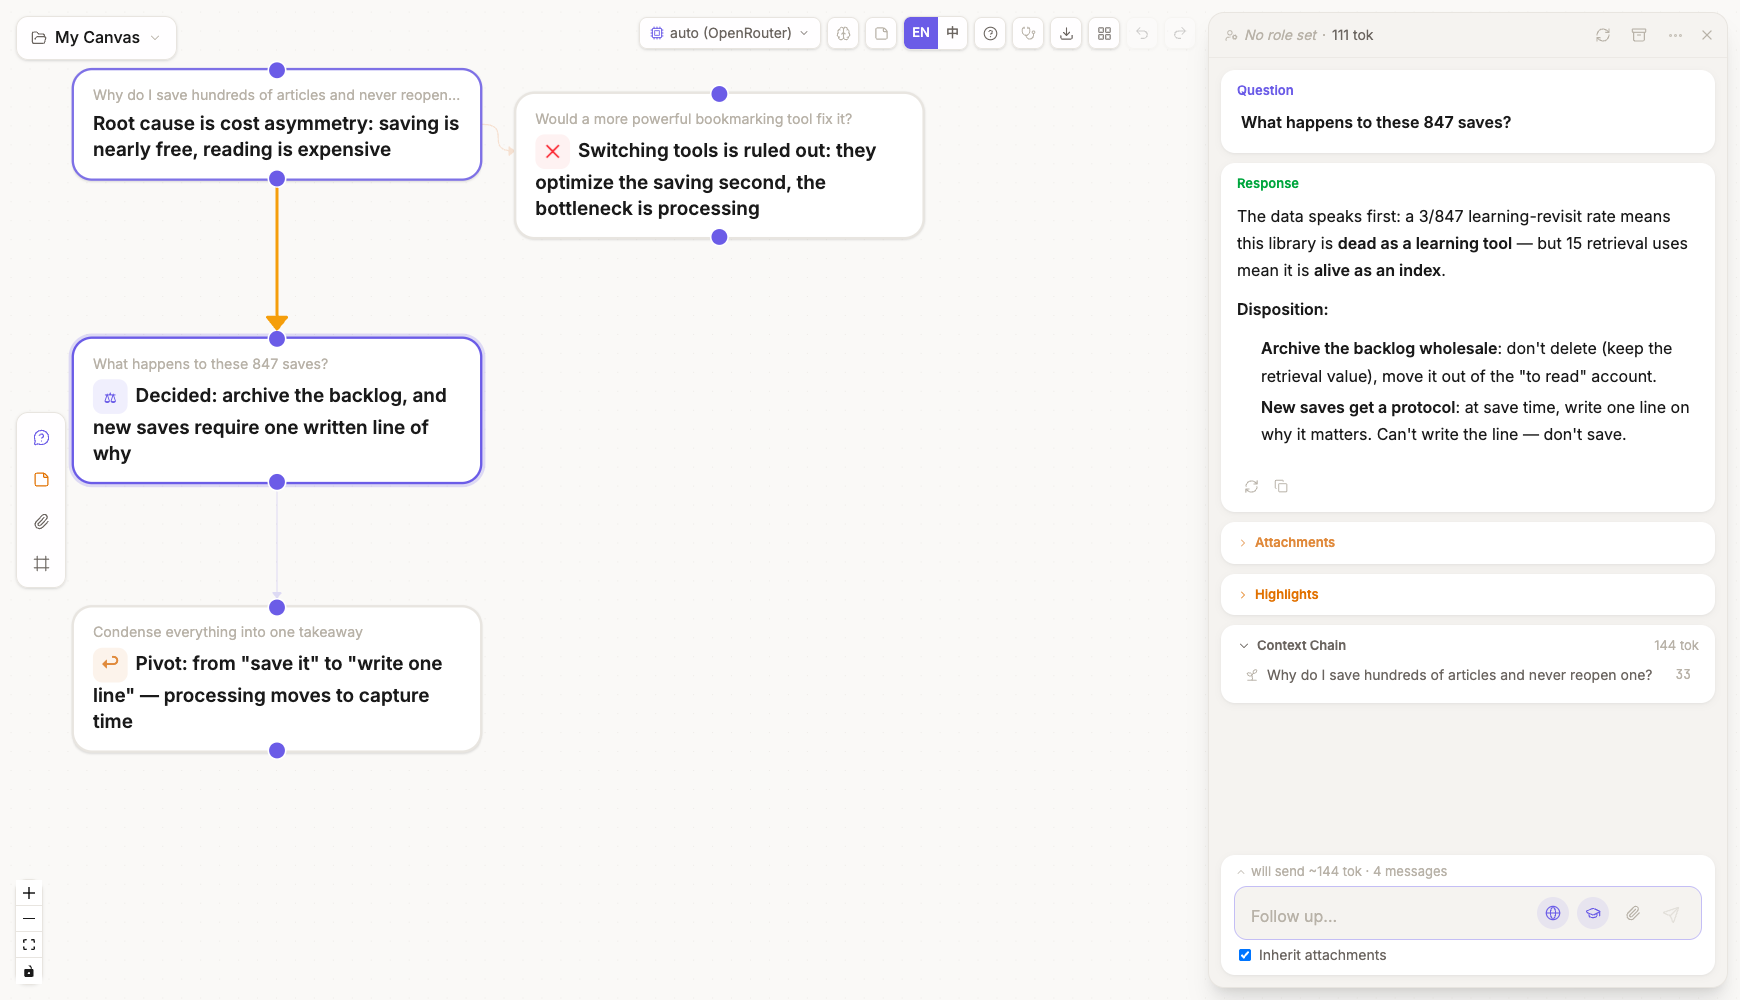
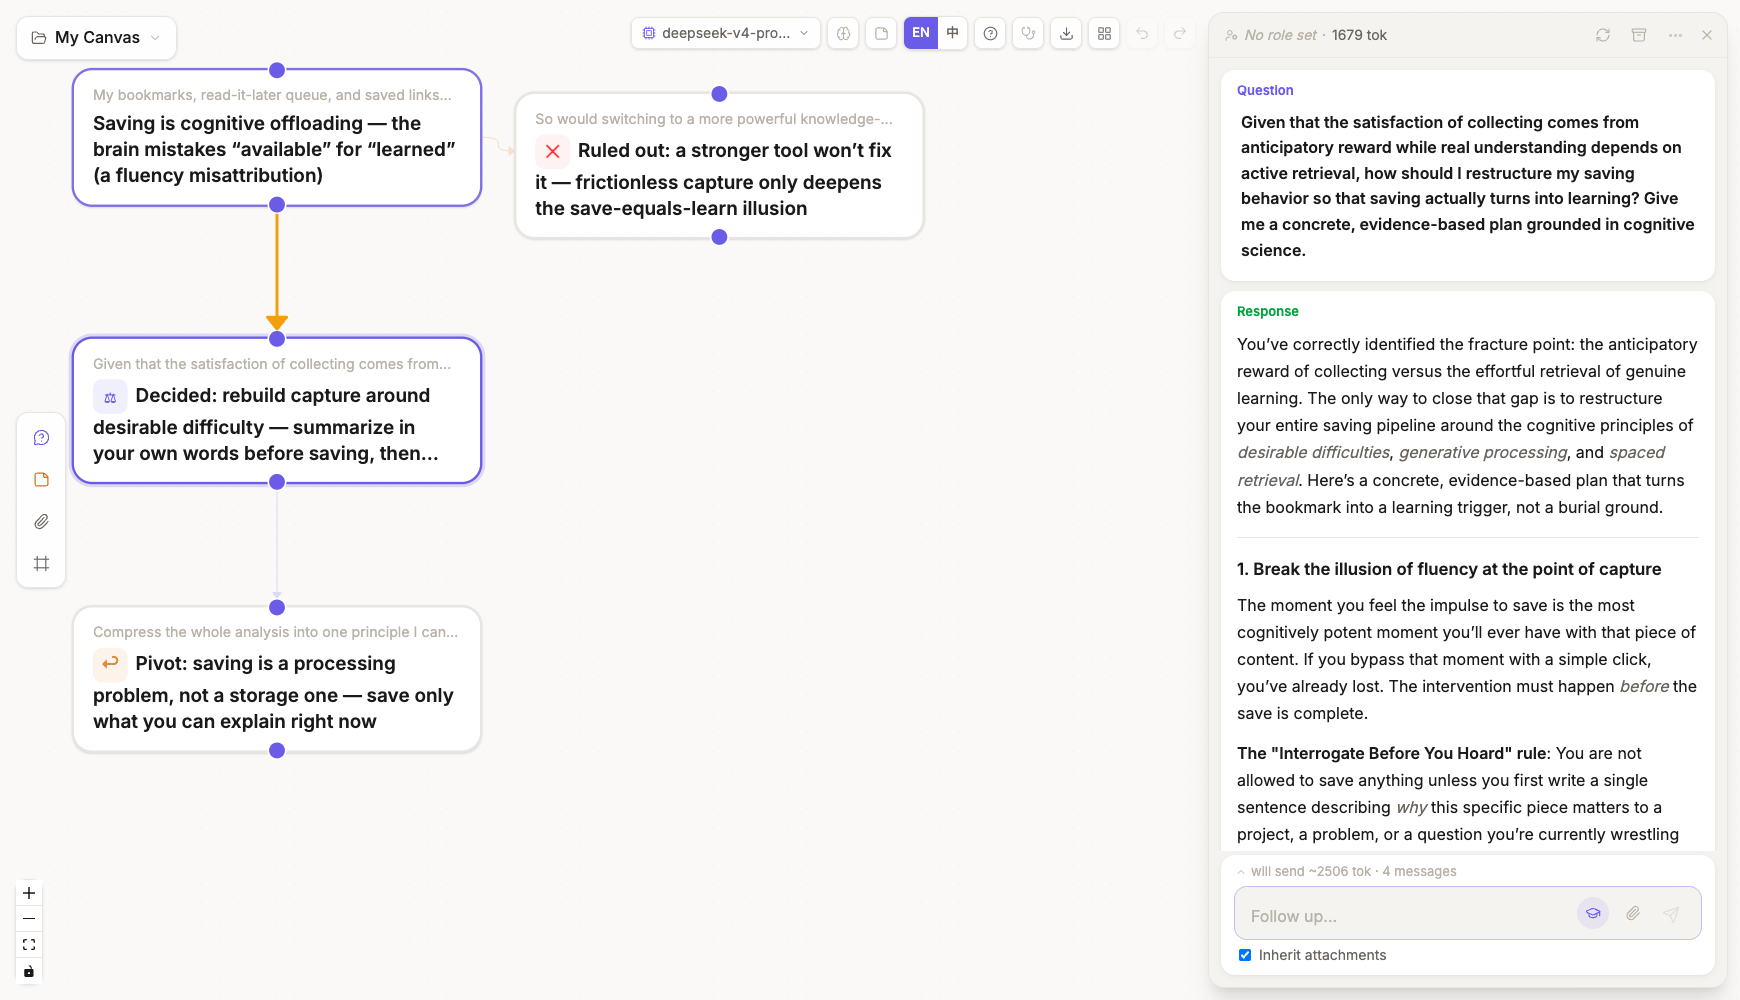
Hero panel shows a real deepseek-v4-pro answer with cognitive-science depth
The panel's content was too thin to show what the tool is for. It now
carries a real answer generated by deepseek-v4-pro through the
OpenRouter proxy (see .local-e2e/gen-hero-deepseek.mjs) on the same
collector's-fallacy question, but at professional depth: cognitive
offloading, the Google effect, fluency misattribution, the generation
effect and retrieval practice, with real citations. The four cognitive
badges (insight / ruled out / decided / pivoted) are kept as structural
role labels; the takeaway lines are refined from the model's own.

- Model picker shows deepseek-v4-pro; the send estimate shows the real
  multi-thousand-token context of a professional exchange.
- Both hero images retaken (zh/en), each with its own real run.

diff --git a/README.md b/README.md
@@ -16,7 +16,7 @@ An infinite canvas where LLM conversations grow into an editable thought graph.
 
 [中文](./README_ZH.md) · [Quick start](#quick-start) · [Features](#features-at-a-glance) · [Models](#supported-models) · [Roadmap](#roadmap)
 
-<img src="docs/hero-en.png" alt="ThoughtDAG: on the left a map of takeaway plaques with badges (decided, ruled out, pivoted) and conversation and branch edges; on the right the focus panel open on one node, showing its full LLM question and answer plus the context chain the model received, priced in tokens" width="100%"/>
+<img src="docs/hero-en.png" alt="ThoughtDAG: on the left, a map of takeaway plaques badged by move (ruled out, decided, pivoted); on the right, the focus panel open on one node showing its full question and a deepseek-v4-pro answer on the cognitive science of why saved articles go unread, with the context it will send priced in tokens" width="100%"/>
 
 </div>
 

diff --git a/README_ZH.md b/README_ZH.md
@@ -16,7 +16,7 @@
 
 [English](./README.md) · [快速开始](#快速开始) · [功能总览](#功能总览) · [支持的模型](#支持的模型) · [Roadmap](#roadmap)
 
-<img src="docs/hero-zh.png" alt="ThoughtDAG：左侧是收获句门牌组成的地图，带徽章（决策、排除、转向）与对话、分支两种边；右侧是打开的侧栏，展示选中节点完整的 LLM 问答，以及模型实际读到的上下文链，按 token 计价" width="100%"/>
+<img src="docs/hero-zh.png" alt="ThoughtDAG：左侧是收获句门牌组成的地图，带徽章（排除、决策、转向）；右侧是打开的侧栏，展示某节点完整的问题，以及 deepseek-v4-pro 关于「收藏为何不读」的认知科学回答，将发送的上下文按 token 计价" width="100%"/>
 
 </div>
 
